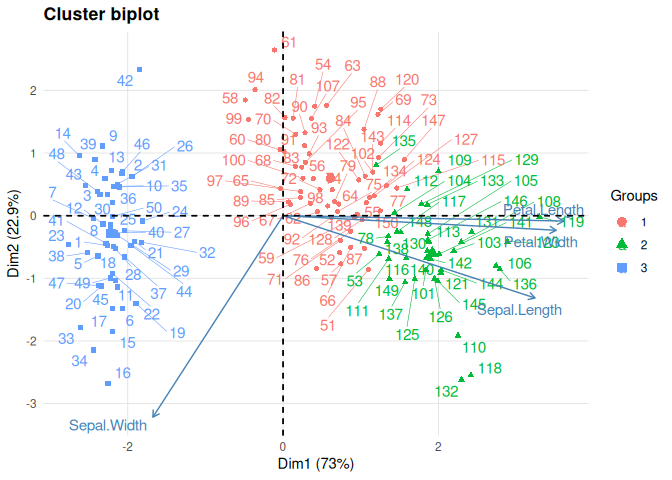
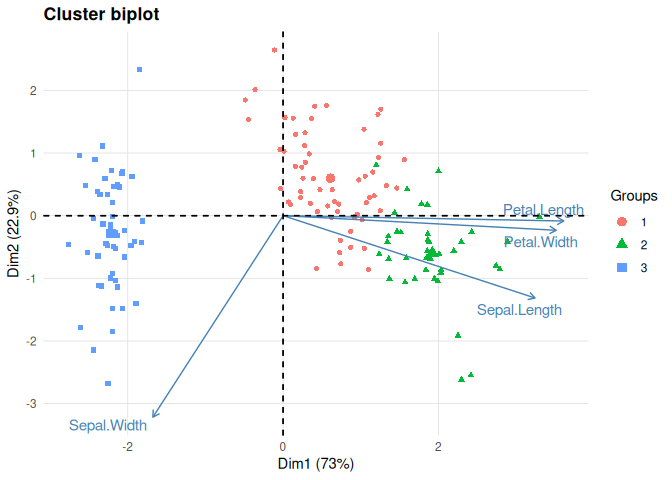
feat: add plot_biplot() display variants (cluster/cos2/label)
Adds a variant argument to plot_biplot(), each following factoextra's
own documented examples for fviz_pca_biplot()/fviz_mca_biplot()
(?factoextra::fviz_pca):

- "cluster" (default): individuals colored/shaped by cluster
  (habillage), labels restricted to variables only (label = "var") so
  the point cloud isn't cluttered with per-observation numbers.
- "cos2": individuals colored by quality of representation
  (col.ind = "cos2") on the white/#2E9FDF/#FC4E07 gradient from
  factoextra's canonical cos2 example.
- "label": individuals shown as text labels instead of points
  (geom.ind = "text").

Extra arguments passed via ... override the selected variant's
defaults (utils::modifyList()).

diff --git a/NEWS.md b/NEWS.md
@@ -1,6 +1,6 @@
 # phynotype 0.6.0
 
-- Added `plot_biplot()`, a thin wrapper around `factoextra::fviz_pca_biplot()`/`fviz_mca_biplot()` for `"pca"` and `"mca"` embeddings, coloring individuals by cluster assignment. No FAMD or MDS equivalent, matching what `factoextra` itself provides.
+- Added `plot_biplot()`, a thin wrapper around `factoextra::fviz_pca_biplot()`/`fviz_mca_biplot()` for `"pca"` and `"mca"` embeddings. No FAMD or MDS equivalent, matching what `factoextra` itself provides. Three `variant`s, all following `factoextra`'s own documented examples: `"cluster"` (default, colored/shaped by cluster assignment), `"cos2"` (colored by quality of representation), and `"label"` (individuals shown as text instead of points).
 - Added `theme_phynotype()`, a single ggplot2 theme now used consistently across every plot function in the package (previously some used `theme_minimal()`, one used `theme_bw()`, and `plot(ceteris_paribus)` had its own ad hoc purple-tinted theme).
 - Fixed `metacluster()` so it can combine native mixed-data methods (`kproto`, `kmm`) with numeric-only (`kmeans`, `pam`, `dbscan`, `gmm`) or distance-based (`hclust`, `agnes`) methods on the same mixed-type dataset, by preparing per-method input instead of passing raw mixed data to every candidate.
 - Fixed `validate.metacluster_fit()` to encode mixed-type data before computing silhouette/Calinski-Harabasz/Davies-Bouldin, matching `validate.cluster_fit()`.
